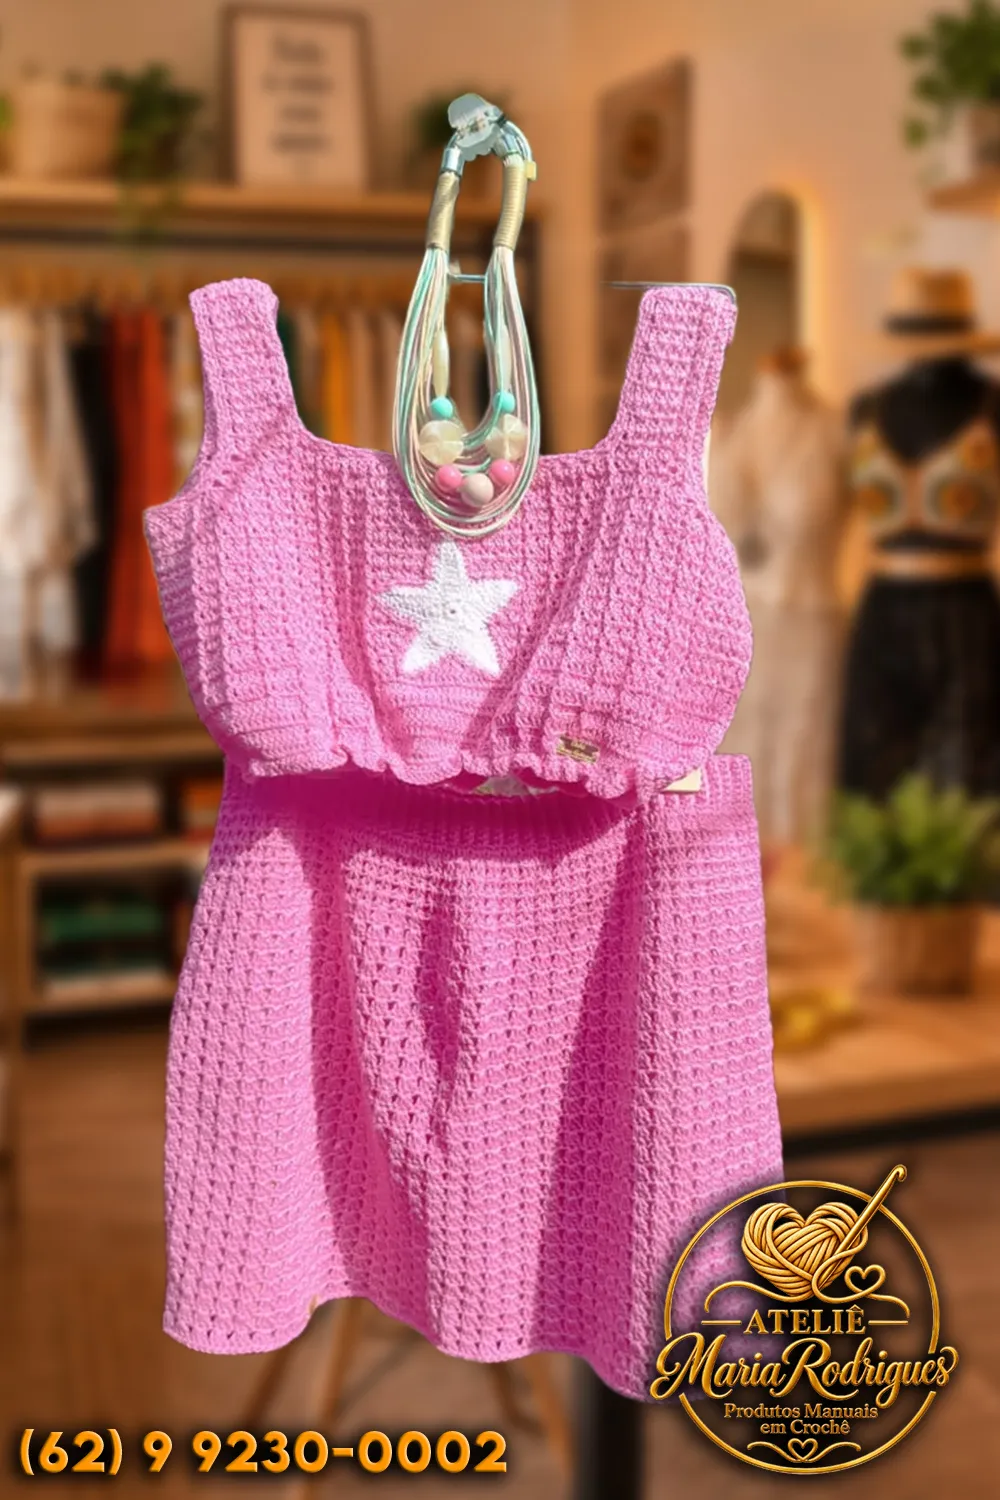
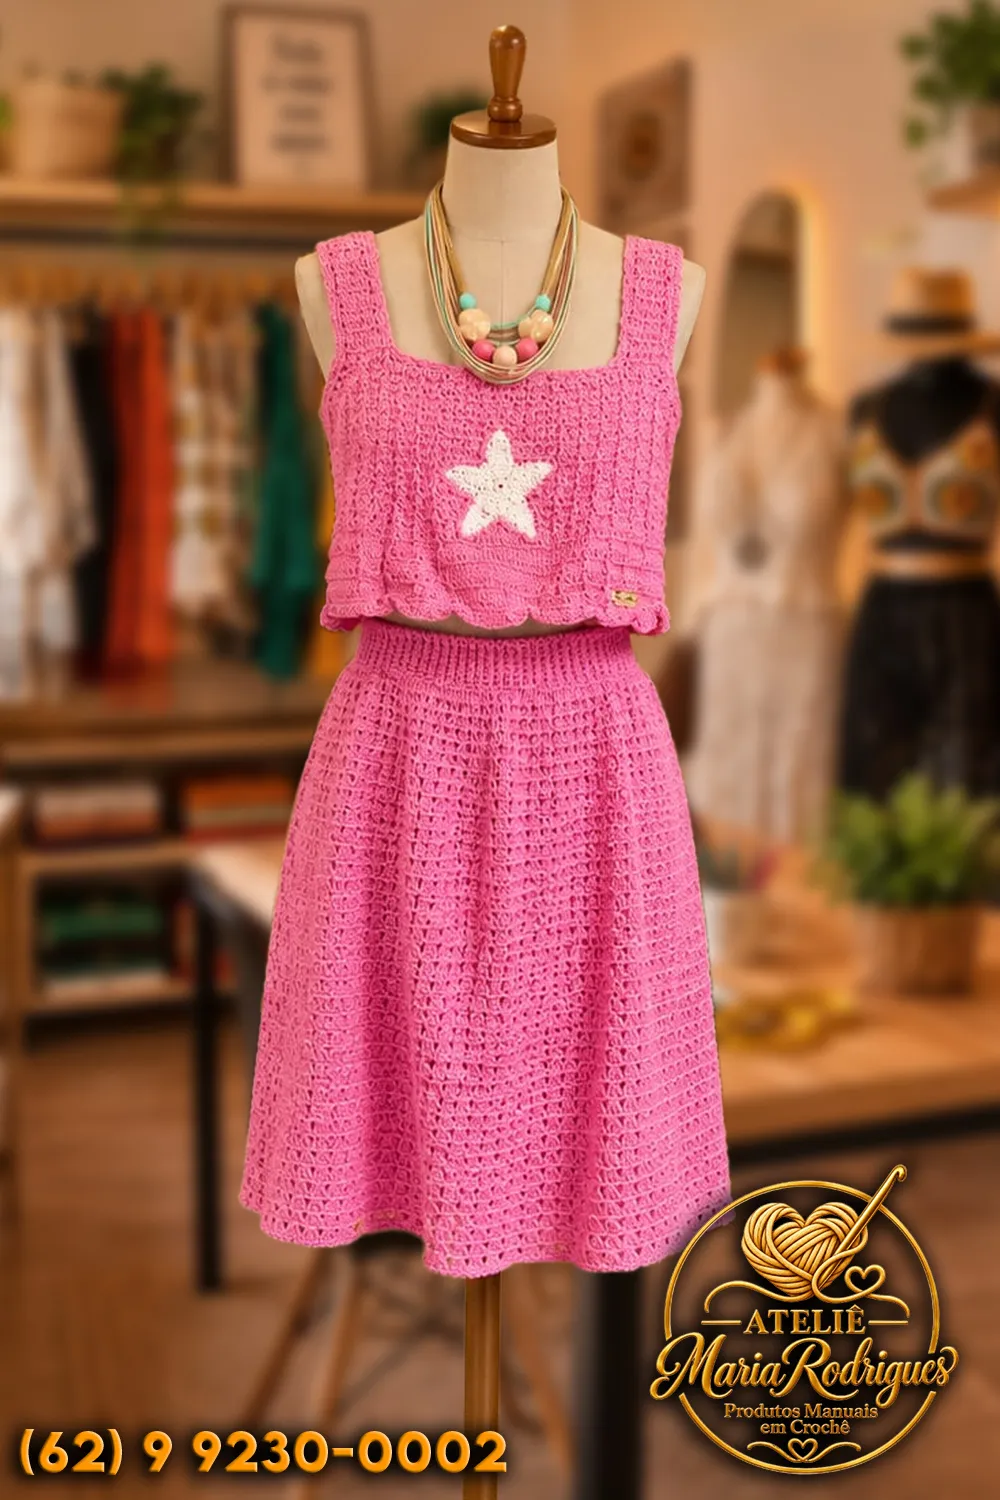
a

diff --git a/index.html b/index.html
@@ -34,7 +34,7 @@
       <a class="category" href="#galeria" data-category="Casa e mesa"><div class="category-photo"><img src="assets/fotos/1001250762.webp" alt="Mesa posta com sousplat de crochê e xícara floral" loading="lazy"></div><div class="category-title"><div><small>03 / PARA ACOLHER</small><h3>Casa & mesa</h3></div><span>↗</span></div></a>
     </div></section>
     <section id="atelie" class="atelier section-wrap"><div class="atelier-photo"><img src="assets/fotos/1001250761.webp" alt="Detalhes de uma composição de mesa com crochê artesanal e guardanapo verde" loading="lazy"><span class="atelier-tag">O cuidado mora nos detalhes.</span></div><div class="atelier-copy"><p class="eyebrow">CONHEÇA O ATELIÊ</p><h2>Mãos que criam.<br><em>Peças que ficam.</em></h2><p>No Ateliê Maria Rodrigues, o crochê ganha forma em roupas, bolsas, acessórios e detalhes para a casa. Cada criação nasce do encontro entre os fios e uma ideia.</p><p>Uma cor favorita, uma ocasião especial ou uma referência que você guardou. Conte para Maria o que imaginou e descubram juntas como transformar essa vontade em uma peça feita à mão.</p><a href="#encomendar" class="text-link">Vamos dar forma à sua ideia <span>↗</span></a><img class="signature" src="logo_horizontal.png" alt="Maria Rodrigues" loading="lazy"></div></section>
-    <section id="galeria" class="gallery-section section-wrap"><div class="section-heading"><div><p class="eyebrow">UM POUCO DO QUE JÁ SAIU DAS NOSSAS MÃOS</p><h2>Fios que viraram <em>criações.</em></h2></div><p>Explore os detalhes. Encontrou uma inspiração?<br>Toque na foto para ver de perto e conversar com Maria.</p></div><div class="gallery-toolbar"><div class="filters" role="group" aria-label="Filtrar criações"><button class="active" data-filter="Todas" aria-pressed="true">Todas</button><button data-filter="Moda" aria-pressed="false">Moda</button><button data-filter="Bolsas e acessórios" aria-pressed="false">Bolsas & acessórios</button><button data-filter="Casa e mesa" aria-pressed="false">Casa & mesa</button></div><span id="gallery-count" aria-live="polite"></span></div><div id="gallery" class="gallery" role="region" aria-label="Galeria de criações"></div><div class="gallery-bottom"><p>Peças já criadas no ateliê. Novas encomendas podem ganhar outras cores e medidas.</p><button id="load-more" class="button button-outline">Ver mais criações <span>+</span></button></div><noscript><p>Ative o JavaScript para explorar as 38 fotos e montar seu orçamento. Você também pode <a href="https://wa.me/556292300002">falar diretamente com Maria no WhatsApp</a>.</p></noscript></section>
+    <section id="galeria" class="gallery-section section-wrap"><div class="section-heading"><div><p class="eyebrow">UM POUCO DO QUE JÁ SAIU DAS NOSSAS MÃOS</p><h2>Fios que viraram <em>criações.</em></h2></div><p>Explore os detalhes. Encontrou uma inspiração?<br>Toque na foto para ver de perto e conversar com Maria.</p></div><div class="gallery-toolbar"><div class="filters" role="group" aria-label="Filtrar criações"><button class="active" data-filter="Todas" aria-pressed="true">Todas</button><button data-filter="Moda" aria-pressed="false">Moda</button><button data-filter="Bolsas e acessórios" aria-pressed="false">Bolsas & acessórios</button><button data-filter="Casa e mesa" aria-pressed="false">Casa & mesa</button></div><span id="gallery-count" aria-live="polite"></span></div><div id="gallery" class="gallery" role="region" aria-label="Galeria de criações"></div><div class="gallery-bottom"><p>Peças já criadas no ateliê. Novas encomendas podem ganhar outras cores e medidas.</p><button id="load-more" class="button button-outline">Ver mais criações <span>+</span></button></div><noscript><p>Ative o JavaScript para explorar as 37 fotos e montar seu orçamento. Você também pode <a href="https://wa.me/556292300002">falar diretamente com Maria no WhatsApp</a>.</p></noscript></section>
     <section class="process section-wrap"><p class="eyebrow">DA SUA IDEIA ÀS MÃOS DE MARIA</p><h2>Vamos criar algo <em>seu?</em></h2><div class="steps"><div><span>01</span><h3>Conte sua ideia</h3><p>Escolha uma inspiração da galeria ou descreva a peça que você imaginou.</p></div><div><span>02</span><h3>Combinem os detalhes</h3><p>Cores, medidas, materiais, valor e prazo são definidos com Maria pelo WhatsApp.</p></div><div><span>03</span><h3>A criação ganha forma</h3><p>Com tudo combinado, é hora de transformar fios em uma peça com a sua personalidade.</p></div></div></section>
     <section id="encomendar" class="contact section-wrap"><div class="contact-copy"><p class="eyebrow">SEU PRÓXIMO CROCHÊ COMEÇA AQUI</p><h2>Você imagina.<br><em>Maria tece.</em></h2><p>Conte um pouquinho do que deseja. Vamos organizar sua mensagem para você continuar a conversa pelo WhatsApp.</p><a href="https://wa.me/556292300002?text=Ol%C3%A1%2C%20Maria!%20Gostaria%20de%20conversar%20sobre%20uma%20pe%C3%A7a%20em%20croch%C3%AA." target="_blank" rel="noopener noreferrer" class="direct-contact"><svg><use href="#whatsapp"/></svg><span>Prefere conversar diretamente?<strong>Fale com Maria ↗</strong></span></a><p class="contact-note">Cada encomenda é única. Valores, disponibilidade e prazos são combinados na conversa.</p></div><form id="quote-form"><div class="form-row"><label>Como você se chama? <span>*</span><input name="nome" autocomplete="given-name" placeholder="Seu nome" maxlength="80" required></label><label>O que vamos criar? <span>*</span><select name="peca" required><option value="">Selecione uma opção</option><option>Bolsa ou acessório</option><option>Roupa em crochê</option><option>Peça para casa ou mesa</option><option>Amigurumi ou presente</option><option>Outra ideia em crochê</option></select></label></div><div class="form-row"><label>Cores desejadas<input name="cores" placeholder="Ex.: cru, dourado, verde..." maxlength="120"></label><label>Tamanho ou medidas<input name="medidas" placeholder="Se já souber" maxlength="120"></label></div><div class="form-row"><label>Quantidade<input name="quantidade" type="number" value="1" min="1" max="999"></label><label>Data desejada<input name="data" type="date"></label></div><label>Conte sua ideia<textarea name="ideia" rows="3" placeholder="Como você imagina sua peça? Você pode enviar uma foto de referência na conversa." maxlength="1500"></textarea></label><button class="button submit-button" type="submit"><svg><use href="#whatsapp"/></svg>Continuar no WhatsApp <span>↗</span></button><p class="form-note">Você revisa e envia a mensagem no WhatsApp. Os dados deste formulário não ficam armazenados no site.</p><p id="form-status" role="status"></p></form></section>
     <section class="closing"><span>✳</span><p>Feito de fios.<br><em>Cheio de significado.</em></p><a href="#inicio">Voltar ao início ↑</a></section>

diff --git a/app.js b/app.js
@@ -1,7 +1,7 @@
 'use strict';
 const catalog = [
 ['vestido-branco-floral','Vestido branco com flores vazadas','Moda','Vestido longo de crochê em tom branco, sem mangas e com decote em V. A trama combina faixas de pontos com motivos florais vazados na cintura e ao longo da saia, criando um desenho delicado até a barra. Converse com Maria sobre cores, medidas e possibilidades para sua encomenda.','Vestido longo branco de crochê em manequim, com decote em V, alças largas e flores vazadas na cintura e na saia'],
-['1001250772','Bolsa e chinelos em tons de mel','Bolsas e acessórios'],['1001250744','Vestido em crochê natural','Moda'],['1001250762','Afeto à mesa','Casa e mesa'],['1001250773','Bolsa azul com corrente','Bolsas e acessórios'],['1001250767','Conjunto verde','Moda'],['1001250749','Mesa em tons naturais','Casa e mesa'],['1001250780','Bolsa e chinelos entre folhagens','Bolsas e acessórios'],['1001250771','Vestido vermelho','Moda'],['1001250745','Conjunto rosa','Moda'],['1001250746','Top rosa e azul','Moda'],['1001250747','Saída em crochê claro','Moda'],['1001250748','Bolsa com franjas','Bolsas e acessórios'],['1001250750','Vestido azul estampado','Moda'],['1001250751','Top verde com franjas','Moda'],['1001250752','Mesa em verde e amarelo','Casa e mesa'],['1001250753','Bolsa em tom natural','Bolsas e acessórios'],['1001250754','Bolsa listrada','Bolsas e acessórios'],['1001250755','Detalhes em rosa','Moda'],['1001250756','Conjunto branco','Moda'],['1001250757','Bolsa de trama aberta','Bolsas e acessórios'],['1001250758','Conjunto azul','Moda'],['1001250759','Bolsa mostarda','Bolsas e acessórios'],['1001250760','Vestido claro: os detalhes','Moda'],['1001250761','Mesa com delicadeza','Casa e mesa'],['1001250763','Franjas em tom natural','Moda'],['1001250764','Crochê com flores amarelas','Casa e mesa'],['1001250765','Saia rosa','Moda'],['1001250766','Peça redonda em duas cores','Casa e mesa'],['1001250768','Trama clara, vista de costas','Moda'],['1001250770','Detalhes e franjas','Moda'],['1001250774','Detalhes da trama','Moda'],['1001250775','Conjunto rosa: outro olhar','Moda'],['1001250776','Top em tom rosado','Moda'],['1001250777','Bolsa em cores vivas','Bolsas e acessórios'],['1001250778','Conjunto rosa e azul','Moda'],['1001250779','Vestido longo rosa','Moda'],['1001250781','Criação em verde vibrante','Moda']
+['1001250772','Bolsa e chinelos em tons de mel','Bolsas e acessórios'],['1001250744','Vestido em crochê natural','Moda'],['1001250762','Afeto à mesa','Casa e mesa'],['1001250773','Bolsa azul com corrente','Bolsas e acessórios'],['1001250767','Conjunto verde','Moda'],['1001250749','Mesa em tons naturais','Casa e mesa'],['1001250780','Bolsa e chinelos entre folhagens','Bolsas e acessórios'],['1001250771','Vestido vermelho','Moda'],['1001250745','Conjunto rosa','Moda'],['1001250746','Top rosa e azul','Moda'],['1001250747','Saída em crochê claro','Moda'],['1001250748','Bolsa com franjas','Bolsas e acessórios'],['1001250750','Vestido azul estampado','Moda'],['1001250751','Top verde com franjas','Moda'],['1001250752','Mesa em verde e amarelo','Casa e mesa'],['1001250753','Bolsa em tom natural','Bolsas e acessórios'],['1001250754','Bolsa listrada','Bolsas e acessórios'],['1001250755','Detalhes em rosa','Moda'],['1001250756','Conjunto branco','Moda'],['1001250757','Bolsa de trama aberta','Bolsas e acessórios'],['1001250758','Conjunto azul','Moda'],['1001250759','Bolsa mostarda','Bolsas e acessórios'],['1001250760','Vestido claro: os detalhes','Moda'],['1001250761','Mesa com delicadeza','Casa e mesa'],['1001250763','Franjas em tom natural','Moda'],['1001250764','Crochê com flores amarelas','Casa e mesa'],['1001250765','Saia rosa','Moda'],['1001250766','Peça redonda em duas cores','Casa e mesa'],['1001250768','Trama clara, vista de costas','Moda'],['1001250770','Detalhes e franjas','Moda'],['1001250774','Detalhes da trama','Moda'],['1001250776','Top em tom rosado','Moda'],['1001250777','Bolsa em cores vivas','Bolsas e acessórios'],['1001250778','Conjunto rosa e azul','Moda'],['1001250779','Vestido longo rosa','Moda'],['1001250781','Criação em verde vibrante','Moda']
 ].map(([id,title,category,description,alt])=>({id,title,category,description,alt:alt||title,src:`assets/fotos/${id}.webp`}));
 let currentFilter='Todas',visible=16,currentIndex=0;
 const gallery=document.querySelector('#gallery'),lightbox=document.querySelector('#lightbox');

diff --git a/sw.js b/sw.js
@@ -1,4 +1,4 @@
-const CACHE='atelie-maria-v11';
+const CACHE='atelie-maria-v12';
 const CORE=['./','./index.html','./styles.css','./app.js','./manifest.webmanifest','./logo_horizontal.png','./logotipo%20vertical%20500px.png','./favicon_e_pwa_icon.png','./assets/icon-192.png','./assets/icon-512.png','./assets/icon-maskable-512.png','./assets/fotos/1001250772.webp'];
 self.addEventListener('install',event=>{event.waitUntil(caches.open(CACHE).then(cache=>cache.addAll(CORE)))});
 self.addEventListener('activate',event=>{event.waitUntil(caches.keys().then(keys=>Promise.all(keys.filter(key=>key.startsWith('atelie-maria-')&&key!==CACHE).map(key=>caches.delete(key)))).then(()=>self.clients.claim()))});

diff --git a/README.md b/README.md
@@ -1,6 +1,6 @@
 # Ateliê Maria Rodrigues
 
-Site estático em português com portfólio de 38 fotografias, filtros, ampliação com swipe e teclado, formulário de orçamento pelo WhatsApp e PWA.
+Site estático em português com portfólio de 37 fotografias, filtros, ampliação com swipe e teclado, formulário de orçamento pelo WhatsApp e PWA.
 
 ## Executar localmente
 
